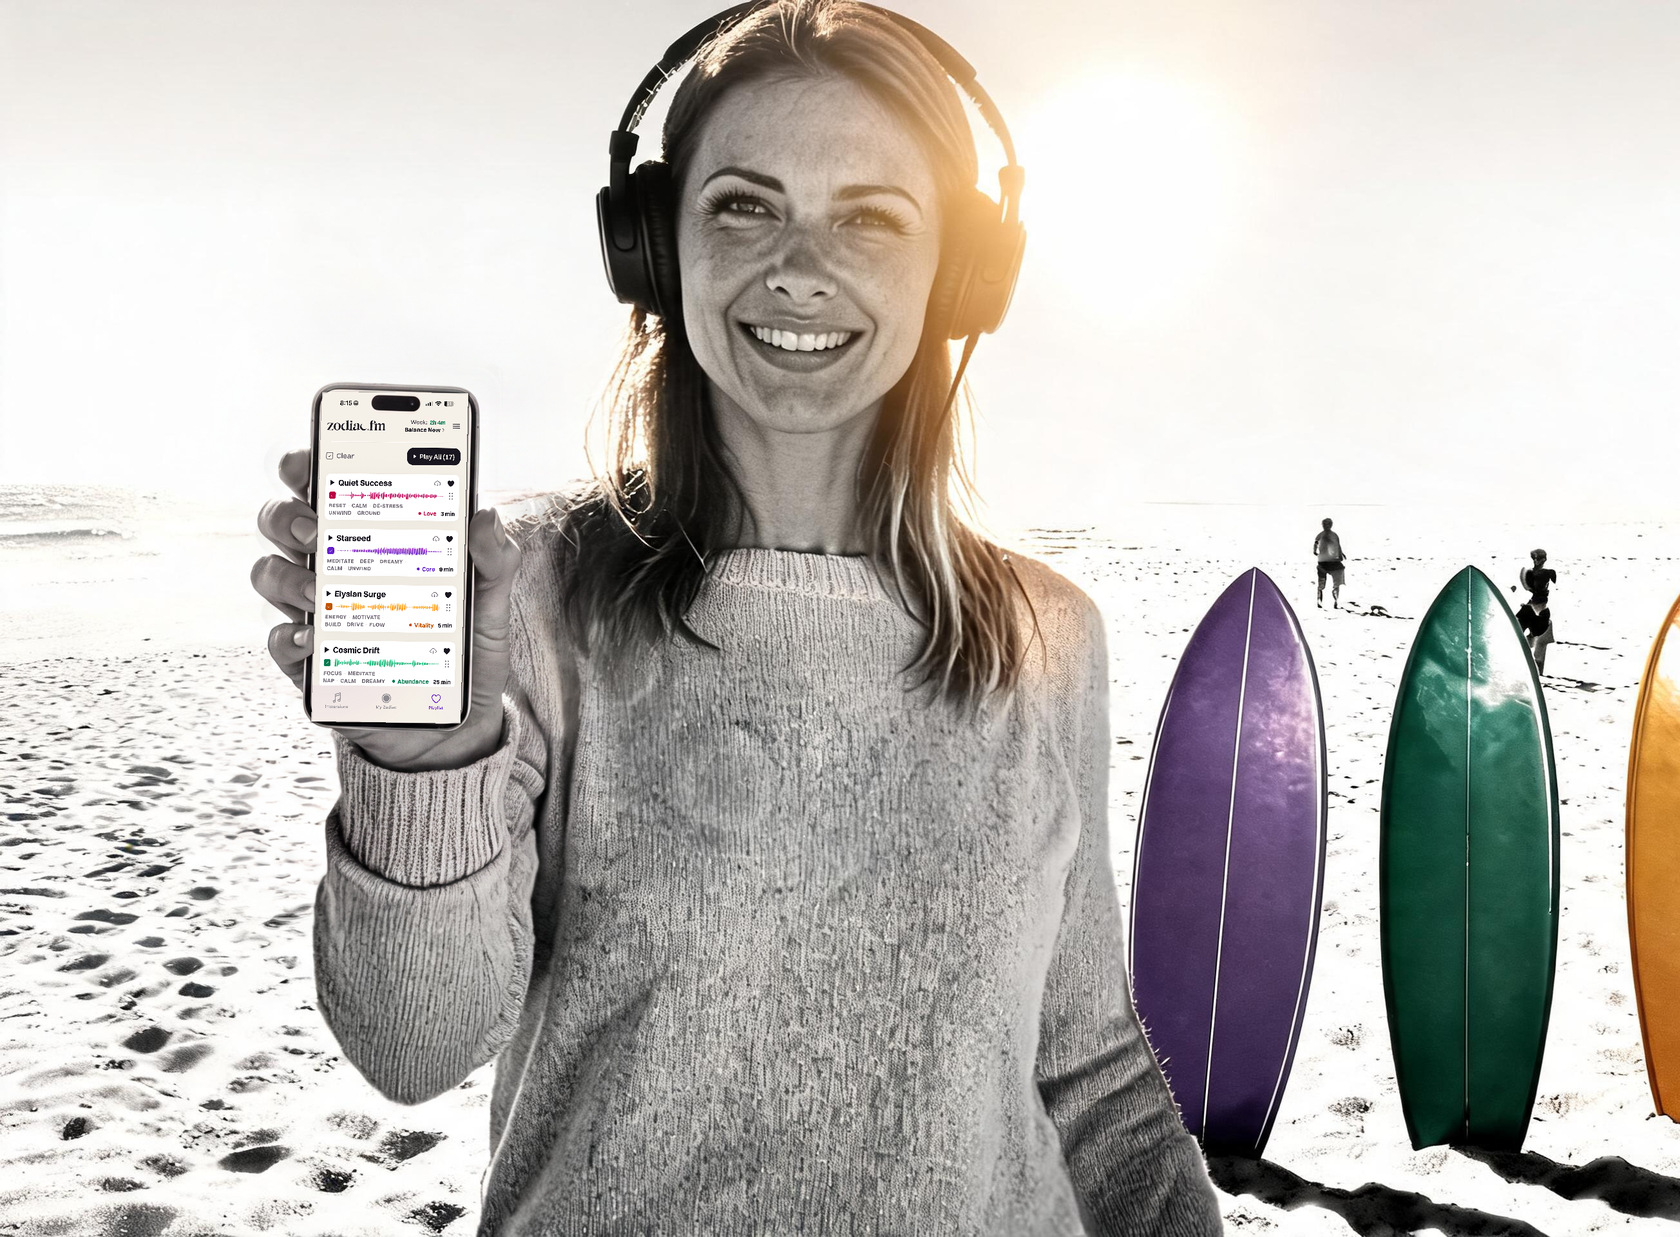
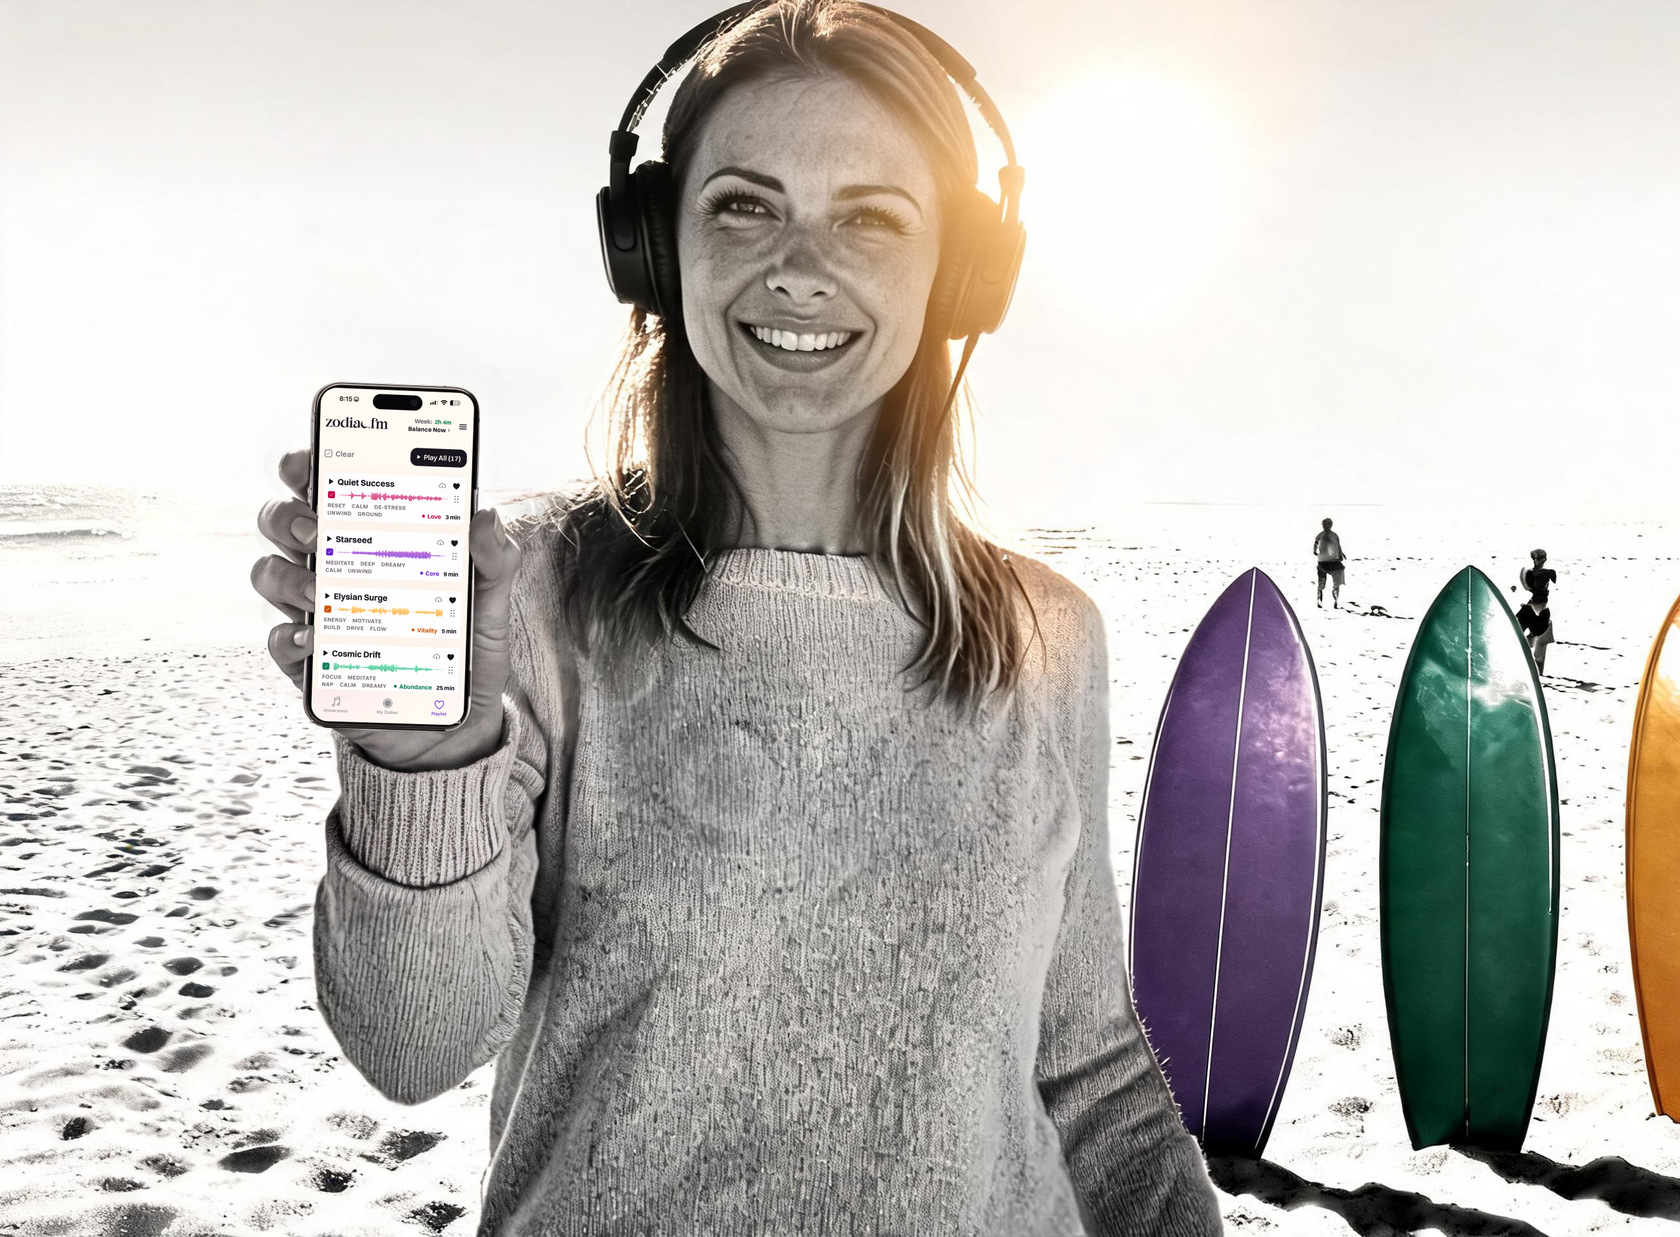
Hero P-177 rebuilt on P-208 The Phone, Frame 04 Build
fd-073. The phone in her hand is the Frame 04 device warped as one layer into
the measured body quad at the 3416 master (body 257.6x536.5, tilt 2.39 deg;
screen 2.18 tall-to-wide against a true 2.17), fingers re-laid over the new
bezel from the master (4,471 px), bezel gain fitted to the beach light and
rolled neutral in the highlights. Outside the phone bbox + 6 px the delivered
JPEGs are bit-identical to the previous cut (MAD 0, max 0). Same number, same
files, so every page carrying P-177 inherits it.

Changed region(s): [[0.1857, 0.3072, 0.3095, 0.6144]]

diff --git a/site/styleguide-library.html b/site/styleguide-library.html
@@ -695,7 +695,7 @@
     </figure>
     <figure class="photo" id="p-177">
       <img loading="lazy" src="/site/assets/hero-home/hero-home-real-screen-01.jpg" alt="A woman with large black headphones in a cream knitted sweater, smiling and holding up a real iPhone whose screen carries the live zodiac.fm Playlist, on a blown-out white beach with four surfboards in violet, emerald, amber and rose, the after-noon sun standing high in the middle of the sky and making all the light">
-      <figcaption><b class="pid">P-177</b><span class="ttl">Hero Home &middot; Real Screen 01</span><span class="recipe"><i>RECIPE</i> after-noon sun standing high makes all the light; four boards carry the chord beneath it. THE hero: the lady in the cream sweater, a real iPhone at true 19.5:9 proportion, carrying iPhone &middot; Real Screen 01 unmodified. Replaced P-163 one-for-one (retired 2026-09-04, Michael&#x27;s word: the P-163 phone was drawn, not photographed, with an old screen pasted over it); pages built on the old plate keep it.</span></figcaption>
+      <figcaption><b class="pid">P-177</b><span class="ttl">Hero Home &middot; Real Screen 01</span><span class="recipe"><i>RECIPE</i> after-noon sun standing high makes all the light; four boards carry the chord beneath it. THE hero: the lady in the cream sweater, a real iPhone at true 19.5:9 proportion, carrying iPhone &middot; Real Screen 01 unmodified. Replaced P-163 one-for-one (retired 2026-09-04, Michael&#x27;s word: the P-163 phone was drawn, not photographed, with an old screen pasted over it); pages built on the old plate keep it. REBUILT 2026-09-06 (fd-073): the phone in her hand is now P-208 The Phone, Frame 04 Build, warped as one layer into the measured body quad at the 3416 master (screen 2.18 tall-to-wide against a true 2.17), her fingers re-laid over the new bezel from the master, bezel gain fitted to the beach light; every pixel outside the phone is bit-identical to the previous cut.</span></figcaption>
     </figure>
     </div>
   </div>
